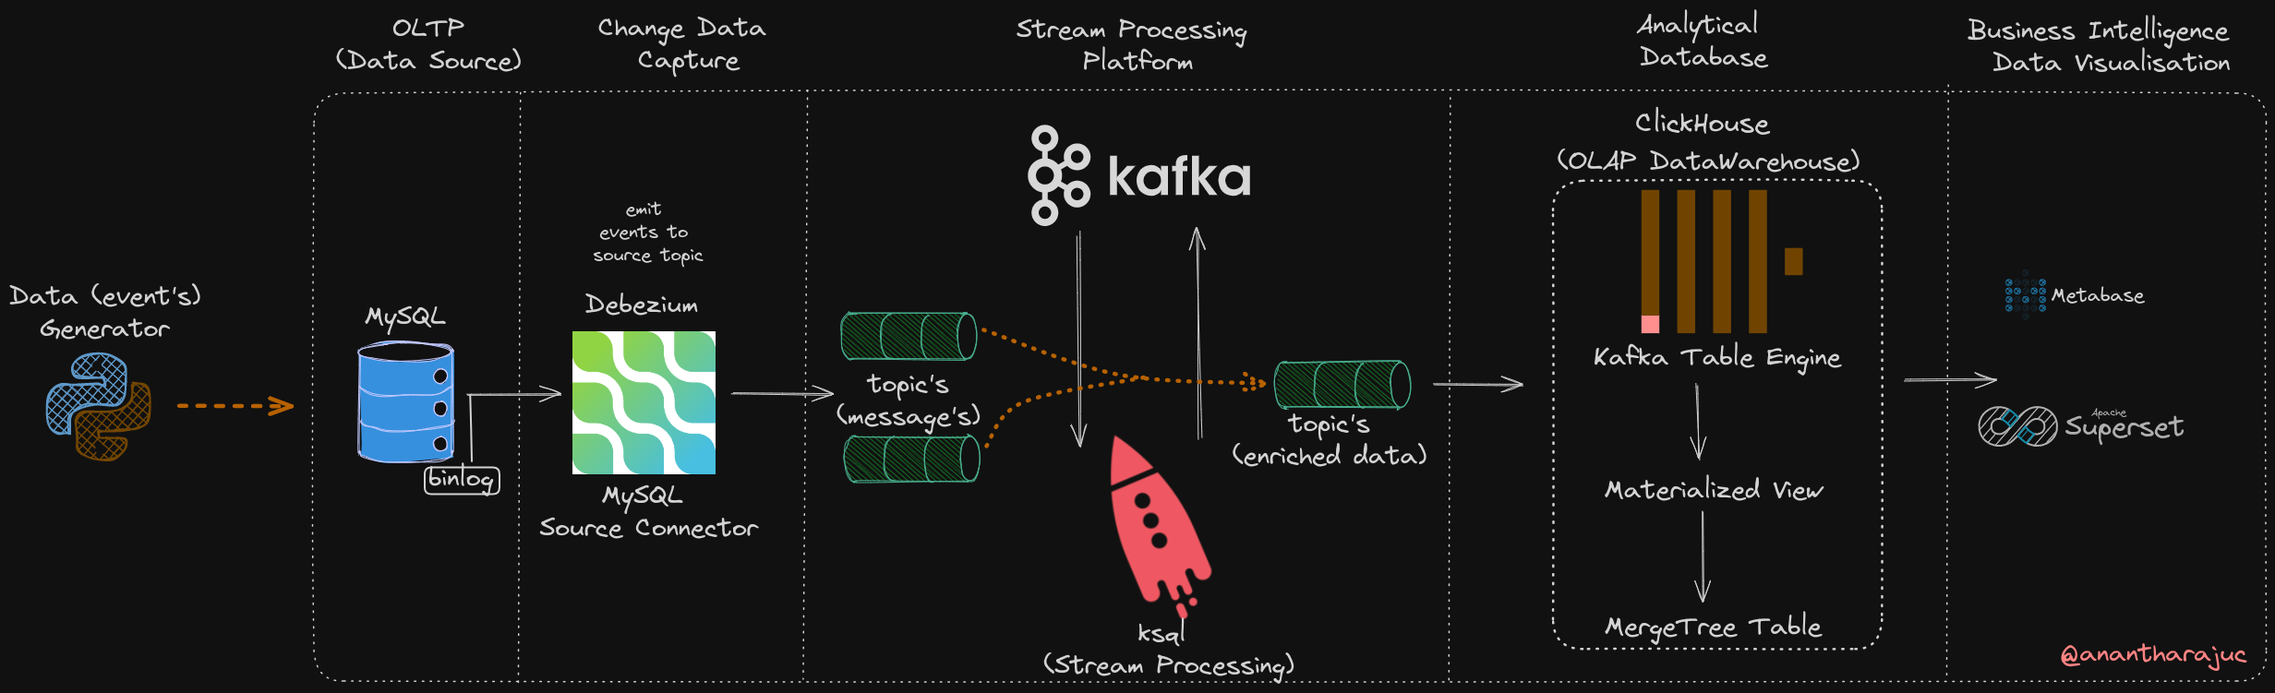
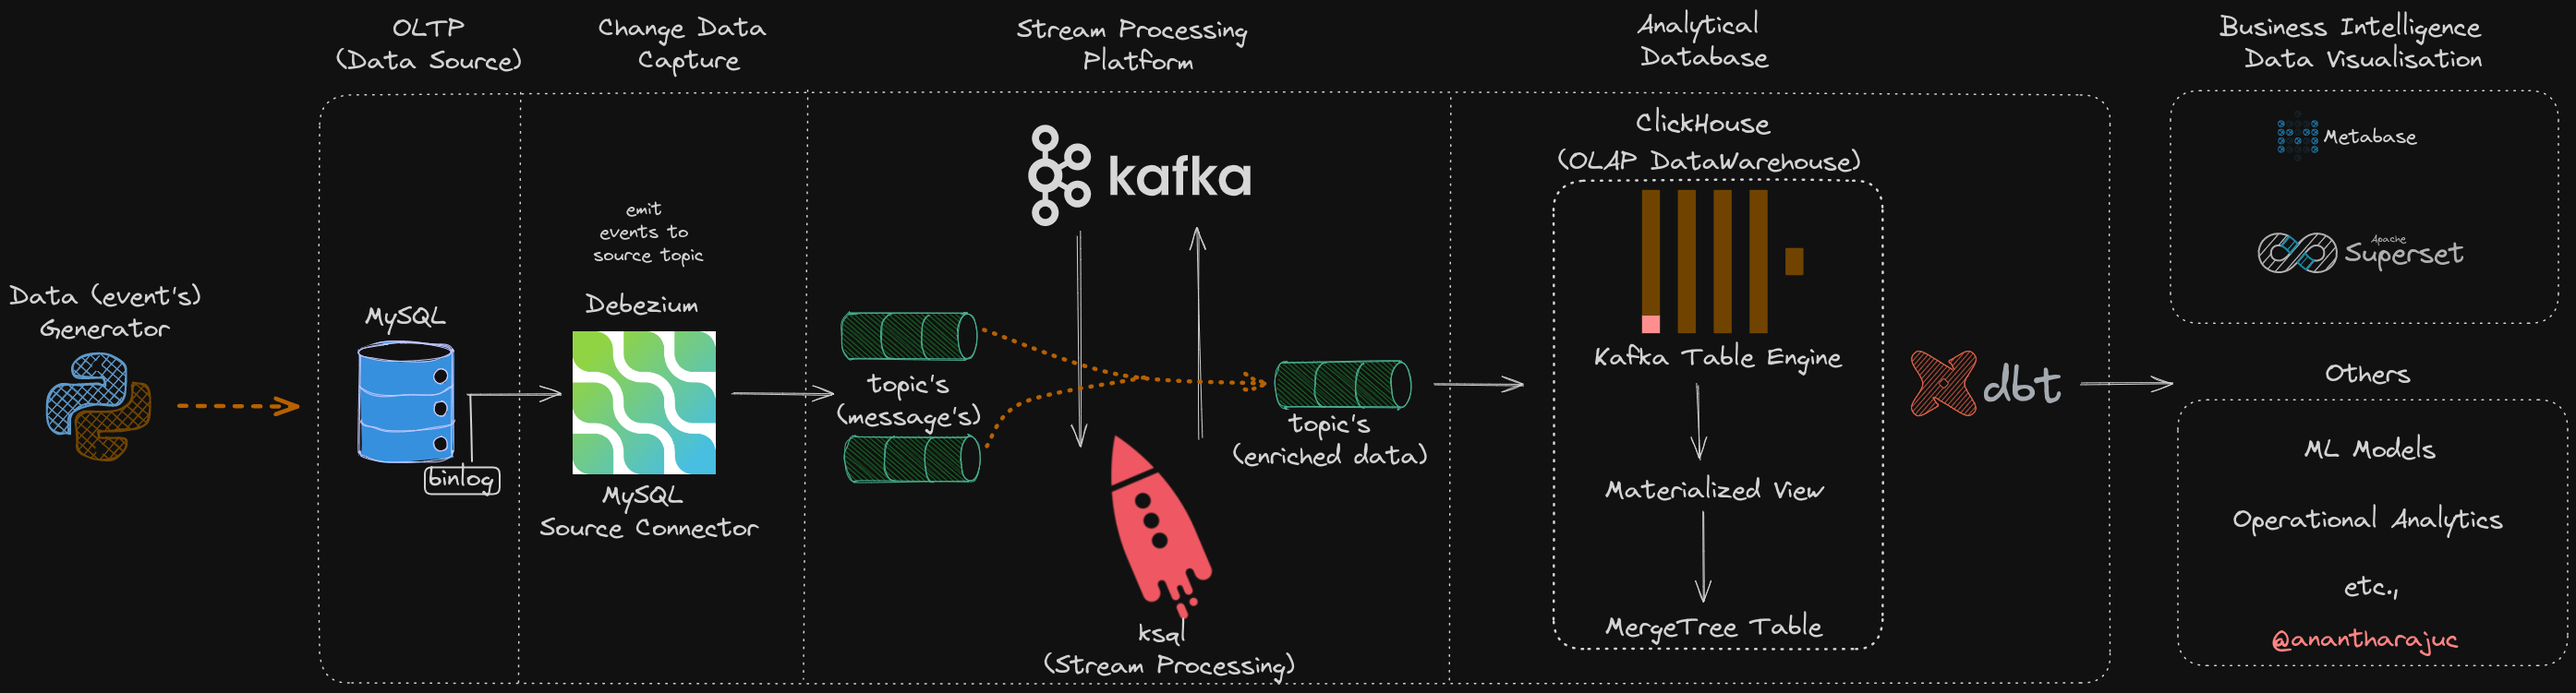
UPDATES

diff --git a/rta/README.md b/rta/README.md
@@ -1,0 +1,15 @@
+Welcome to your new dbt project!
+
+### Using the starter project
+
+Try running the following commands:
+- dbt run
+- dbt test
+
+
+### Resources:
+- Learn more about dbt [in the docs](https://docs.getdbt.com/docs/introduction)
+- Check out [Discourse](https://discourse.getdbt.com/) for commonly asked questions and answers
+- Join the [chat](https://community.getdbt.com/) on Slack for live discussions and support
+- Find [dbt events](https://events.getdbt.com) near you
+- Check out [the blog](https://blog.getdbt.com/) for the latest news on dbt's development and best practices

diff --git a/README.md b/README.md
@@ -51,7 +51,8 @@ In this project we will create a simple streaming data pipeline to continuously 
 - [04 - ksqlDB Streams](documentation/KSQLDB_STREAMS.MD) 
 - [ksqlDB Tables(Optional)](documentation/KSQLDB_TABLES.MD) 
 - [05 - ClickHouse](documentation/ClickHouse.MD) 
-
+- [06 - dbt (Optional)](documentation/DBT.MD) 
+- 
 - [Reference](documentation/REFERENCE.MD)  
 
 

diff --git a/documentation/DBT.MD b/documentation/DBT.MD
@@ -1,0 +1,40 @@
+## DBT
+
+dbt init rta  
+
+cd rta  
+
+touch profiles.yml  
+
+dbt debug  
+
+dbt docs generate  
+
+dbt docs serve --port 8001    
+
+cd models  
+
+mkdir KafkaEngine
+
+cd KafkaEngine  
+
+touch rta_initial.sql   
+
+cd ..
+
+cd ..  
+
+dbt build  
+
+
+
+
+
+
+
+
+
+
+
+
+
